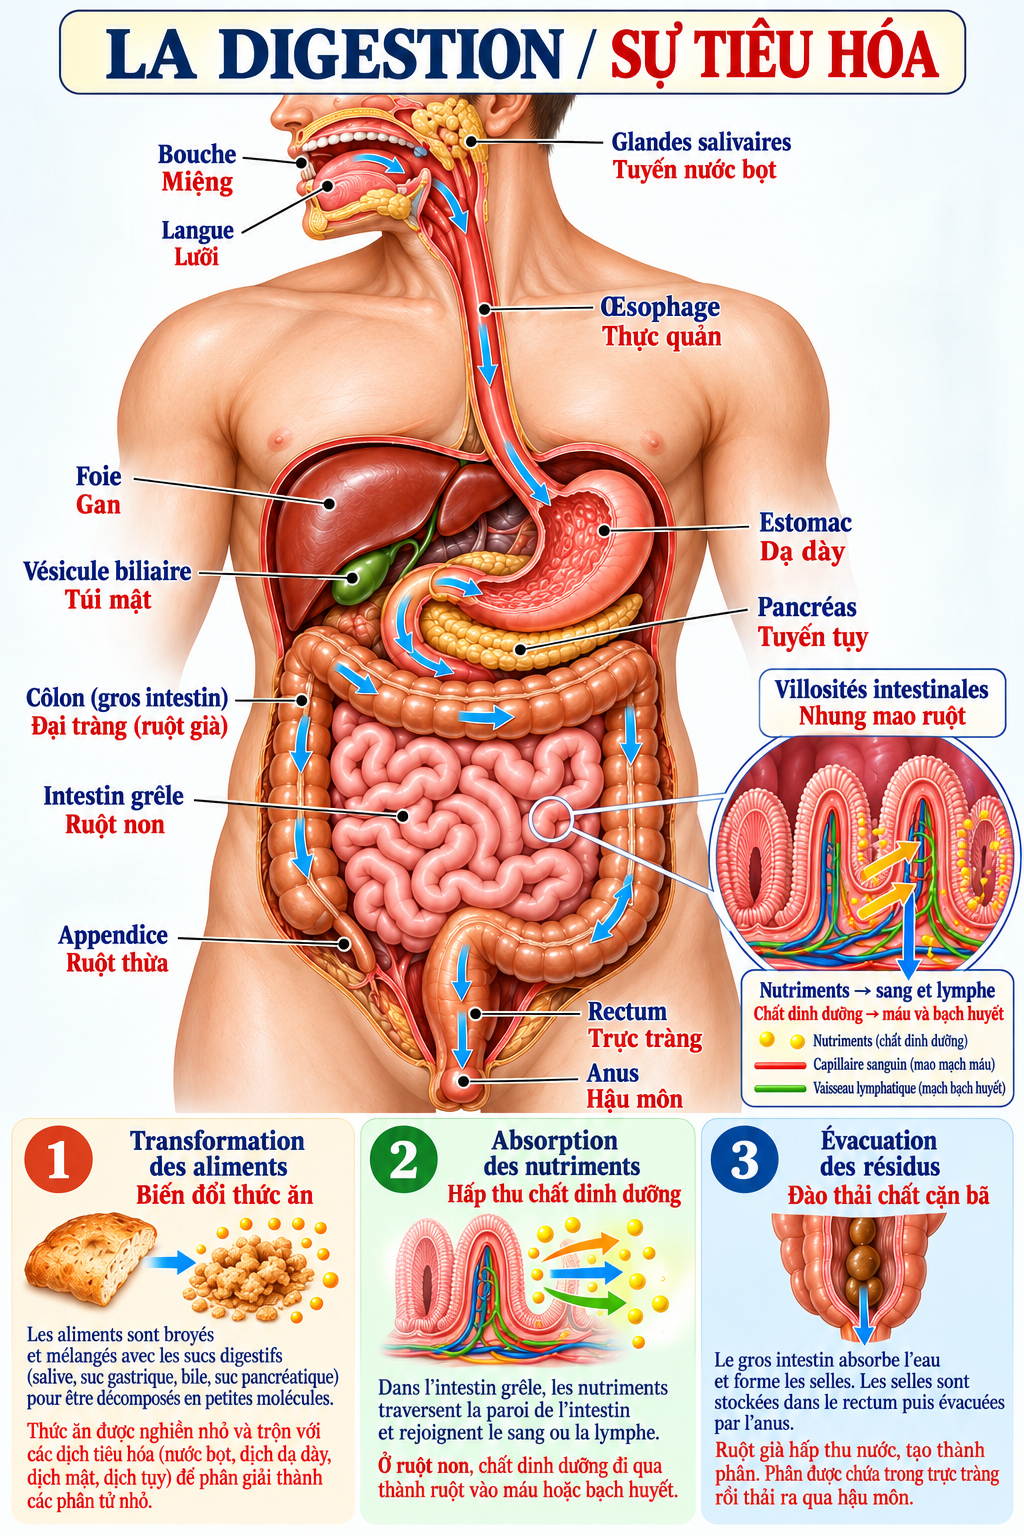
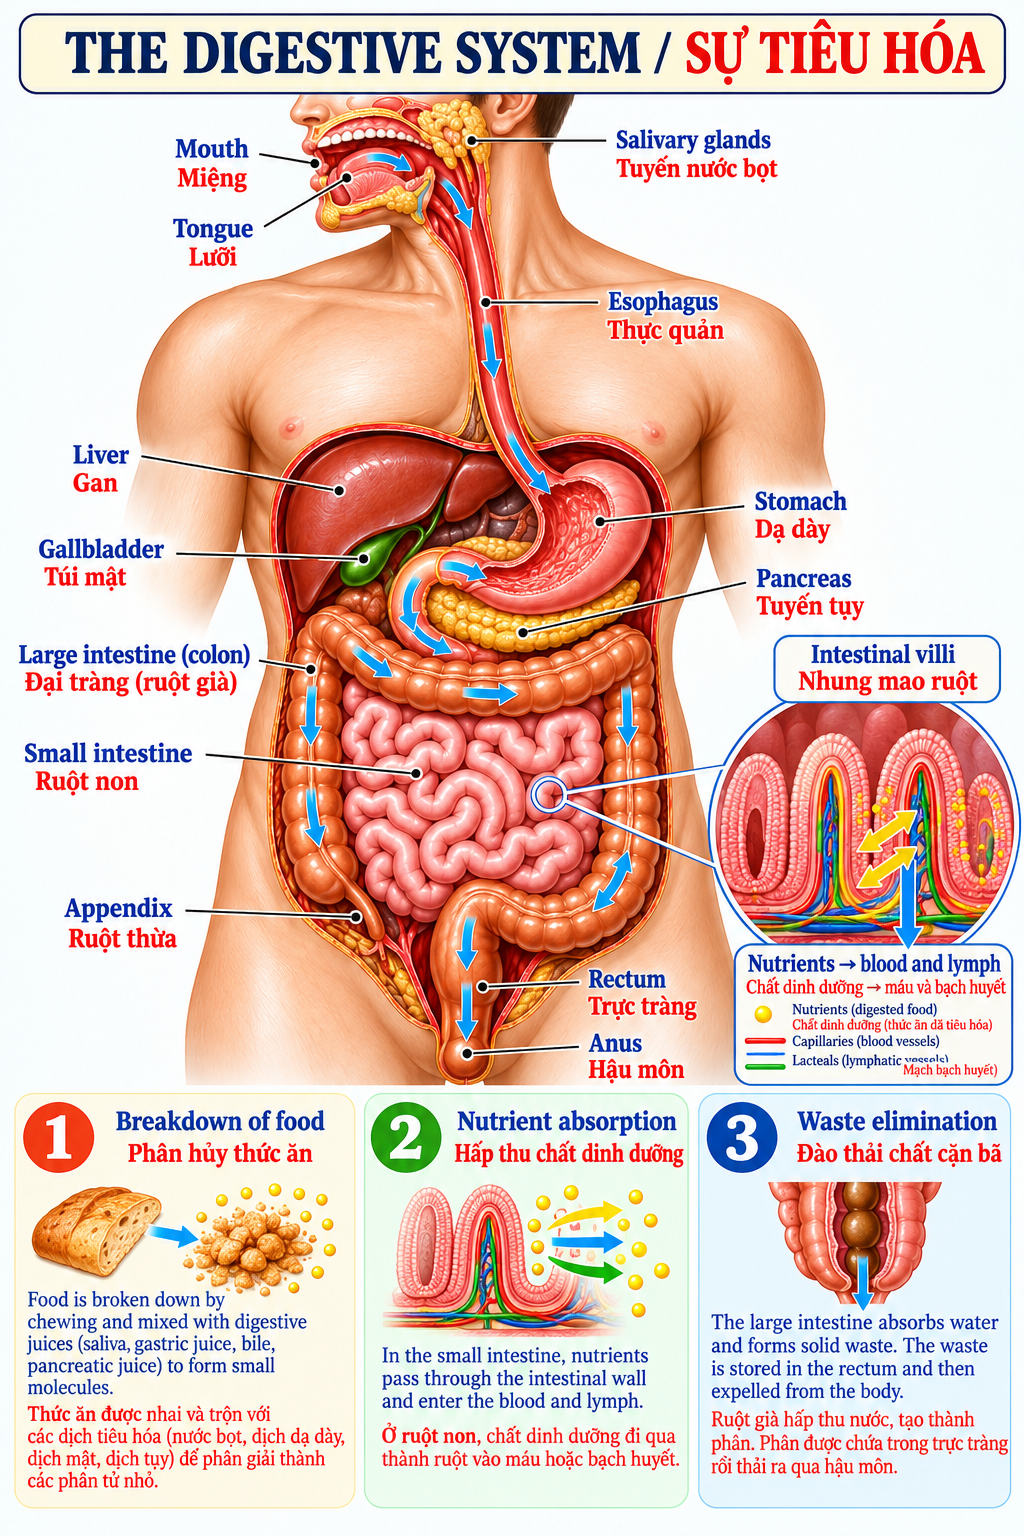
Add files via upload

diff --git a/french/digestion/game.js b/french/digestion/game.js
@@ -34,7 +34,16 @@ function drawIdentify(g){title(g,'🔎 Mission 1 — Trouve l’organe','Nhìn h
  const current=identify[step],p=document.createElement('div');p.className='prompt';p.textContent=`${step+1}/${identify.length} · Où est ${current.name.toLowerCase()} ?`;g.append(p);
  const map=document.createElement('div');map.className='map';let img=document.createElement('img');img.src='assets/anatomie.png';img.alt='Hình giải phẫu hệ tiêu hóa, không có nhãn';map.append(img);
  const notice=document.createElement('div');notice.id='notice';
- organData.forEach((o,i)=>{let b=btn(String(i+1),()=>{if(locked)return;locked=true;let good=o.name===current.name;if(good)score+=10;notice.replaceChildren(feedback(good?`✓ Chính xác! ${o.name} — ${o.vi}`:`Chưa đúng. Đây là ${o.name} (${o.vi}). Đáp án: ${current.name}.`,good),nextButton('Tiếp tục →',()=>{step++;locked=false;render()}));map.querySelectorAll('button').forEach(x=>x.disabled=true);header()},'hotspot');b.style.left=`${o.x/1024*100}%`;b.style.top=`${o.y/1536*100}%`;b.title=`Vị trí ${i+1}`;b.setAttribute('aria-label',`Chọn vị trí số ${i+1}`);map.append(b)});g.append(map,notice)}
+ organData.forEach((o,i)=>{let b=btn(String(i+1),()=>{if(locked)return;locked=true;let good=o.name===current.name;if(good)score+=10;notice.replaceChildren(feedback(good?`✓ Chính xác! ${o.name} — ${o.vi}`:`Chưa đúng. Đây là ${o.name} (${o.vi}). Đáp án: ${current.name}.`,good),nextButton('Tiếp tục →',()=>{step++;locked=false;render()}));map.querySelectorAll('button').forEach(x=>x.disabled=true);
+ if(!good){
+   const correctIndex=organData.findIndex(item=>item.name===current.name);
+   const correctMarker=map.querySelectorAll('button.hotspot')[correctIndex];
+   if(correctMarker){
+     correctMarker.classList.add('hotspot-correct');
+     correctMarker.setAttribute('aria-label',correctMarker.getAttribute('aria-label')+' — correct answer');
+   }
+ }
+ header()},'hotspot');b.style.left=`${o.x/1024*100}%`;b.style.top=`${o.y/1536*100}%`;b.title=`Vị trí ${i+1}`;b.setAttribute('aria-label',`Chọn vị trí số ${i+1}`);map.append(b)});g.append(map,notice)}
 function drawJourney(g){title(g,'🧭 Mission 2 — Le voyage des aliments','Chọn các cơ quan theo thứ tự thức ăn đi qua.');let p=document.createElement('div');p.className='prompt';p.textContent=`${route.length} / ${journey.length} étapes`;g.append(p);let trail=document.createElement('div');trail.className='trail';route.forEach((n,i)=>{let s=document.createElement('span');s.className='chip';s.textContent=`${i+1}. ${n}`;trail.append(s)});g.append(trail);let choices=document.createElement('div');choices.className='choices';let pool=shuffle(journey.filter(n=>!route.includes(n)));pool.forEach(n=>choices.append(btn(n,()=>{route.push(n);render()},'secondary')));g.append(choices);let controls=document.createElement('div');controls.className='row';controls.append(btn('↶ Hoàn tác',()=>{route.pop();render()},'secondary'));if(route.length===journey.length)controls.append(btn('✓ Kiểm tra',()=>{let correct=route.every((n,i)=>n===journey[i]);g.append(feedback(correct?'Bravo ! Đúng toàn bộ hành trình.':'Chưa đúng. Hãy xem lại hình bài học và thử lại.',correct));if(correct){score+=70;level=3;step=0;quizOrder=shuffle(questions);g.append(nextButton('Mission 3 →',render))}else g.append(nextButton('Thử lại',()=>{route=[];render()}));controls.querySelectorAll('button').forEach(b=>b.disabled=true);header()}));g.append(controls)}
 function drawQuiz(g){title(g,'🧠 Mission 3 — Défi français','Đọc câu hỏi tiếng Pháp và chọn đáp án đúng.');if(step>=quizOrder.length){g.append(feedback('Félicitations ! Bạn đã hoàn thành thử thách tiếng Pháp.',true),nextButton('Xem kết quả 🏆',()=>{level=4;render()}));return}let q=quizOrder[step],p=document.createElement('div');p.className='prompt';p.textContent=`${step+1}/${quizOrder.length} · ${q.q}`;g.append(p);let options=document.createElement('div');options.className='choices';let result=document.createElement('div');q.opts.forEach((o,i)=>options.append(btn(o,()=>{if(answered)return;answered=true;let good=i===q.a;if(good)score+=20;result.append(feedback((good?'✓ Bravo ! ':'✗ '+q.opts[q.a]+'. ')+q.why,good),nextButton('Tiếp tục →',()=>{step++;answered=false;render()}));options.querySelectorAll('button').forEach(b=>b.disabled=true);header()},'secondary')));g.append(options,result)}
 function drawEnd(g){$('stage').textContent='Mission terminée';$('bar').style.width='100%';let stars=score>=240?'⭐⭐⭐':score>=160?'⭐⭐':'⭐';g.innerHTML=`<div class="badge">🏆</div><h2 class="center">Expert de la digestion</h2><p class="center">${stars}</p><p class="center">Bravo ! Vous avez terminé les trois missions.</p><p class="center"><strong>Score : ${score} / 270</strong></p>`;let row=document.createElement('div');row.className='row';row.append(btn('🔄 Rejouer',reset),btn('📤 Partager',share,'secondary'));g.append(row)}

diff --git a/english/digestion/game.js b/english/digestion/game.js
@@ -34,7 +34,16 @@ function drawIdentify(g){title(g,'🔎 Mission 1 — Find the organ','Look at th
  const current=identify[step],p=document.createElement('div');p.className='prompt';p.textContent=`${step+1}/${identify.length} · Where is ${current.name.toLowerCase()}?`;g.append(p);
  const map=document.createElement('div');map.className='map';let img=document.createElement('img');img.src='assets/anatomie.png';img.alt='Hình giải phẫu hệ tiêu hóa, không có nhãn';map.append(img);
  const notice=document.createElement('div');notice.id='notice';
- organData.forEach((o,i)=>{let b=btn(String(i+1),()=>{if(locked)return;locked=true;let good=o.name===current.name;if(good)score+=10;notice.replaceChildren(feedback(good?`✓ Correct! ${o.name} — ${o.vi}`:`Not quite. This is ${o.name} (${o.vi}). Correct answer: ${current.name}.`,good),nextButton('Continue →',()=>{step++;locked=false;render()}));map.querySelectorAll('button').forEach(x=>x.disabled=true);header()},'hotspot');b.style.left=`${o.x/1024*100}%`;b.style.top=`${o.y/1536*100}%`;b.title=`Marker ${i+1}`;b.setAttribute('aria-label',`Choose marker number ${i+1}`);map.append(b)});g.append(map,notice)}
+ organData.forEach((o,i)=>{let b=btn(String(i+1),()=>{if(locked)return;locked=true;let good=o.name===current.name;if(good)score+=10;notice.replaceChildren(feedback(good?`✓ Correct! ${o.name} — ${o.vi}`:`Not quite. This is ${o.name} (${o.vi}). Correct answer: ${current.name}.`,good),nextButton('Continue →',()=>{step++;locked=false;render()}));map.querySelectorAll('button').forEach(x=>x.disabled=true);
+ if(!good){
+   const correctIndex=organData.findIndex(item=>item.name===current.name);
+   const correctMarker=map.querySelectorAll('button.hotspot')[correctIndex];
+   if(correctMarker){
+     correctMarker.classList.add('hotspot-correct');
+     correctMarker.setAttribute('aria-label',correctMarker.getAttribute('aria-label')+' — correct answer');
+   }
+ }
+ header()},'hotspot');b.style.left=`${o.x/1024*100}%`;b.style.top=`${o.y/1536*100}%`;b.title=`Marker ${i+1}`;b.setAttribute('aria-label',`Choose marker number ${i+1}`);map.append(b)});g.append(map,notice)}
 function drawJourney(g){title(g,'🧭 Mission 2 — The journey of food','Select the organs in the order food travels through them.');let p=document.createElement('div');p.className='prompt';p.textContent=`${route.length} / ${journey.length} steps`;g.append(p);let trail=document.createElement('div');trail.className='trail';route.forEach((n,i)=>{let s=document.createElement('span');s.className='chip';s.textContent=`${i+1}. ${n}`;trail.append(s)});g.append(trail);let choices=document.createElement('div');choices.className='choices';let pool=shuffle(journey.filter(n=>!route.includes(n)));pool.forEach(n=>choices.append(btn(n,()=>{route.push(n);render()},'secondary')));g.append(choices);let controls=document.createElement('div');controls.className='row';controls.append(btn('↶ Undo',()=>{route.pop();render()},'secondary'));if(route.length===journey.length)controls.append(btn('✓ Check',()=>{let correct=route.every((n,i)=>n===journey[i]);g.append(feedback(correct?'Bravo! The entire sequence is correct.':'Not quite. Review the lesson image and try again.',correct));if(correct){score+=70;level=3;step=0;quizOrder=shuffle(questions);g.append(nextButton('Mission 3 →',render))}else g.append(nextButton('Try again',()=>{route=[];render()}));controls.querySelectorAll('button').forEach(b=>b.disabled=true);header()}));g.append(controls)}
 function drawQuiz(g){title(g,'🧠 Mission 3 — English challenge','Read the English question and choose the correct answer.');if(step>=quizOrder.length){g.append(feedback('Congratulations! You completed the English challenge.',true),nextButton('See results 🏆',()=>{level=4;render()}));return}let q=quizOrder[step],p=document.createElement('div');p.className='prompt';p.textContent=`${step+1}/${quizOrder.length} · ${q.q}`;g.append(p);let options=document.createElement('div');options.className='choices';let result=document.createElement('div');q.opts.forEach((o,i)=>options.append(btn(o,()=>{if(answered)return;answered=true;let good=i===q.a;if(good)score+=20;result.append(feedback((good?'✓ Bravo ! ':'✗ '+q.opts[q.a]+'. ')+q.why,good),nextButton('Continue →',()=>{step++;answered=false;render()}));options.querySelectorAll('button').forEach(b=>b.disabled=true);header()},'secondary')));g.append(options,result)}
 function drawEnd(g){$('stage').textContent='Mission complete';$('bar').style.width='100%';let stars=score>=240?'⭐⭐⭐':score>=160?'⭐⭐':'⭐';g.innerHTML=`<div class="badge">🏆</div><h2 class="center">Expert de la digestion</h2><p class="center">${stars}</p><p class="center">Bravo! You completed all three missions.</p><p class="center"><strong>Score : ${score} / 270</strong></p>`;let row=document.createElement('div');row.className='row';row.append(btn('🔄 Play again',reset),btn('📤 Share',share,'secondary'));g.append(row)}

diff --git a/english/digestion/style.css b/english/digestion/style.css
@@ -1,1 +1,6 @@
 :root{font-family:system-ui,-apple-system,Segoe UI,Arial,sans-serif;color:#173254;background:#f1f6ff}*{box-sizing:border-box}body{margin:0}header{background:#102d58;color:white;padding:14px max(16px,calc((100vw - 980px)/2));display:flex;justify-content:space-between;gap:10px;align-items:center;font-size:14px;font-weight:700}a{color:inherit;text-decoration:none}.back{opacity:.9}main{max-width:980px;margin:auto;padding:18px}.hero{text-align:center;padding:12px 0}.eyebrow{font-size:12px;font-weight:800;color:#2874bc;letter-spacing:1.5px}h1{font-size:clamp(26px,5vw,40px);margin:8px 0}.hero p{margin:0 0 12px;color:#54708c}.stats{display:flex;justify-content:space-between;font-weight:800;margin:14px 0 8px}.progress{height:10px;background:#dce8f7;border-radius:20px;overflow:hidden}.progress div{height:100%;width:0;background:linear-gradient(90deg,#0ca9a2,#4d84f7);transition:width .3s}.panel,.study{background:white;border-radius:20px;box-shadow:0 8px 30px #12345a12;padding:clamp(16px,3vw,28px);margin-top:16px}.panel h2{margin:0 0 8px;font-size:24px}.muted{color:#5a718a}.prompt{font-size:20px;font-weight:800;margin:14px 0}.map{position:relative;width:min(100%,440px);margin:12px auto;border-radius:16px;overflow:hidden;border:2px solid #dbe8f8;background:#f9fcff}.map img{width:100%;display:block}.hotspot{position:absolute;width:36px;height:36px;transform:translate(-50%,-50%);border-radius:50%;background:#ffdf55;border:3px solid #fff;box-shadow:0 1px 0 3px #a46409,0 3px 12px #0005;cursor:pointer;color:#3a2800;font-weight:900;touch-action:manipulation}.hotspot:focus-visible{outline:4px solid #2563eb}.hotspot:disabled{opacity:.65;cursor:default}.choices{display:grid;grid-template-columns:repeat(2,minmax(0,1fr));gap:10px;margin:18px 0}button{font:inherit;cursor:pointer;border:0;border-radius:12px;padding:13px 15px;background:#1c64bd;color:white;font-weight:750;min-height:46px}button:hover:not(:disabled){filter:brightness(1.06)}button:disabled{opacity:.5;cursor:not-allowed}.choices button,.secondary{background:#eaf2ff;color:#153a67;border:1px solid #cadcf4}.choices button:disabled{opacity:.4}.row{display:flex;gap:10px;flex-wrap:wrap}.row button{flex:1}.feedback{border-radius:12px;background:#eef7ff;padding:14px;margin:12px 0;line-height:1.5}.feedback.ok{background:#e4f8ed;color:#16623e}.feedback.bad{background:#fff0e9;color:#8c3e17}.trail{display:flex;flex-wrap:wrap;gap:8px;margin:12px 0;min-height:50px}.chip{padding:9px 11px;border-radius:10px;background:#e8f2ff;font-size:14px;font-weight:700}.trail .chip{background:#d8f7ed}.study img{width:100%;max-width:620px;display:block;margin:18px auto;border-radius:8px}.study button{width:100%}footer{text-align:center;padding:28px 12px;color:#67809b;font-size:12px}.badge{font-size:46px;text-align:center}.center{text-align:center}.pill{display:inline-block;border-radius:50px;background:#eaf2ff;padding:6px 12px;font-size:13px;font-weight:800}@media(max-width:520px){header{font-size:11px}.choices{grid-template-columns:1fr}.hotspot{width:32px;height:32px}.panel h2{font-size:21px}}
+
+/* Show the correct location after a wrong answer, including on disabled buttons. */
+.hotspot.hotspot-correct,.hotspot.hotspot-correct:disabled{opacity:1;background:#e32636;color:#fff;border:3px solid #fff;box-shadow:0 0 0 4px #a50016,0 0 18px 7px #ff354b;z-index:5;animation:correctPulse .65s ease-in-out 4 alternate;}
+@keyframes correctPulse{from{transform:translate(-50%,-50%) scale(1)}to{transform:translate(-50%,-50%) scale(1.23)}}
+@media(prefers-reduced-motion:reduce){.hotspot.hotspot-correct{animation:none}}

diff --git a/french/digestion/style.css b/french/digestion/style.css
@@ -1,1 +1,6 @@
 :root{font-family:system-ui,-apple-system,Segoe UI,Arial,sans-serif;color:#173254;background:#f1f6ff}*{box-sizing:border-box}body{margin:0}header{background:#102d58;color:white;padding:14px max(16px,calc((100vw - 980px)/2));display:flex;justify-content:space-between;gap:10px;align-items:center;font-size:14px;font-weight:700}a{color:inherit;text-decoration:none}.back{opacity:.9}main{max-width:980px;margin:auto;padding:18px}.hero{text-align:center;padding:12px 0}.eyebrow{font-size:12px;font-weight:800;color:#2874bc;letter-spacing:1.5px}h1{font-size:clamp(26px,5vw,40px);margin:8px 0}.hero p{margin:0 0 12px;color:#54708c}.stats{display:flex;justify-content:space-between;font-weight:800;margin:14px 0 8px}.progress{height:10px;background:#dce8f7;border-radius:20px;overflow:hidden}.progress div{height:100%;width:0;background:linear-gradient(90deg,#0ca9a2,#4d84f7);transition:width .3s}.panel,.study{background:white;border-radius:20px;box-shadow:0 8px 30px #12345a12;padding:clamp(16px,3vw,28px);margin-top:16px}.panel h2{margin:0 0 8px;font-size:24px}.muted{color:#5a718a}.prompt{font-size:20px;font-weight:800;margin:14px 0}.map{position:relative;width:min(100%,440px);margin:12px auto;border-radius:16px;overflow:hidden;border:2px solid #dbe8f8;background:#f9fcff}.map img{width:100%;display:block}.hotspot{position:absolute;width:36px;height:36px;transform:translate(-50%,-50%);border-radius:50%;background:#ffdf55;border:3px solid #fff;box-shadow:0 1px 0 3px #a46409,0 3px 12px #0005;cursor:pointer;color:#3a2800;font-weight:900;touch-action:manipulation}.hotspot:focus-visible{outline:4px solid #2563eb}.hotspot:disabled{opacity:.65;cursor:default}.choices{display:grid;grid-template-columns:repeat(2,minmax(0,1fr));gap:10px;margin:18px 0}button{font:inherit;cursor:pointer;border:0;border-radius:12px;padding:13px 15px;background:#1c64bd;color:white;font-weight:750;min-height:46px}button:hover:not(:disabled){filter:brightness(1.06)}button:disabled{opacity:.5;cursor:not-allowed}.choices button,.secondary{background:#eaf2ff;color:#153a67;border:1px solid #cadcf4}.choices button:disabled{opacity:.4}.row{display:flex;gap:10px;flex-wrap:wrap}.row button{flex:1}.feedback{border-radius:12px;background:#eef7ff;padding:14px;margin:12px 0;line-height:1.5}.feedback.ok{background:#e4f8ed;color:#16623e}.feedback.bad{background:#fff0e9;color:#8c3e17}.trail{display:flex;flex-wrap:wrap;gap:8px;margin:12px 0;min-height:50px}.chip{padding:9px 11px;border-radius:10px;background:#e8f2ff;font-size:14px;font-weight:700}.trail .chip{background:#d8f7ed}.study img{width:100%;max-width:620px;display:block;margin:18px auto;border-radius:8px}.study button{width:100%}footer{text-align:center;padding:28px 12px;color:#67809b;font-size:12px}.badge{font-size:46px;text-align:center}.center{text-align:center}.pill{display:inline-block;border-radius:50px;background:#eaf2ff;padding:6px 12px;font-size:13px;font-weight:800}@media(max-width:520px){header{font-size:11px}.choices{grid-template-columns:1fr}.hotspot{width:32px;height:32px}.panel h2{font-size:21px}}
+
+/* Show the correct location after a wrong answer, including on disabled buttons. */
+.hotspot.hotspot-correct,.hotspot.hotspot-correct:disabled{opacity:1;background:#e32636;color:#fff;border:3px solid #fff;box-shadow:0 0 0 4px #a50016,0 0 18px 7px #ff354b;z-index:5;animation:correctPulse .65s ease-in-out 4 alternate;}
+@keyframes correctPulse{from{transform:translate(-50%,-50%) scale(1)}to{transform:translate(-50%,-50%) scale(1.23)}}
+@media(prefers-reduced-motion:reduce){.hotspot.hotspot-correct{animation:none}}

diff --git a/GAME04-README.md b/GAME04-README.md
@@ -5,3 +5,8 @@ English: english/digestion/index.html
 Both category pages updated. Upload the contents of this folder to the root of your existing GitHub Pages repository. Existing games retained.
 
 English version uses English prompts and quiz questions, while the original bilingual French–Vietnamese Facebook lesson image is intentionally preserved in the optional study panel.
+
+### Update v3
+- English study image replaced with English–Vietnamese infographic.
+- Mission 1 highlights the correct numbered marker in red after a wrong answer in both languages.
+- Missions 2 and 3 unchanged.
